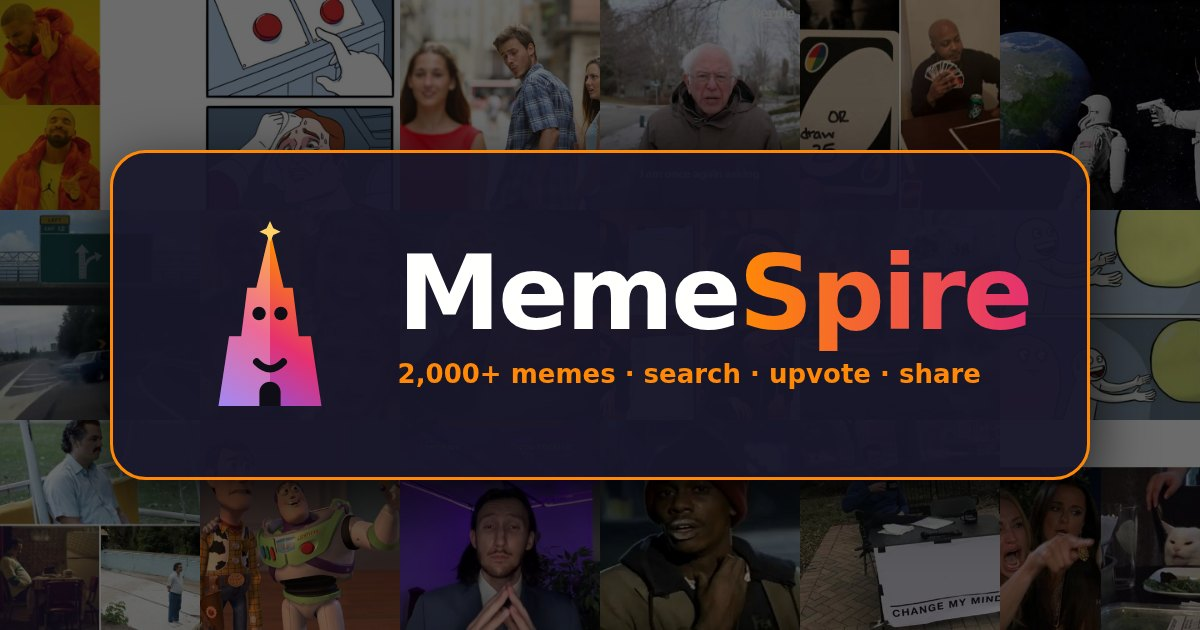
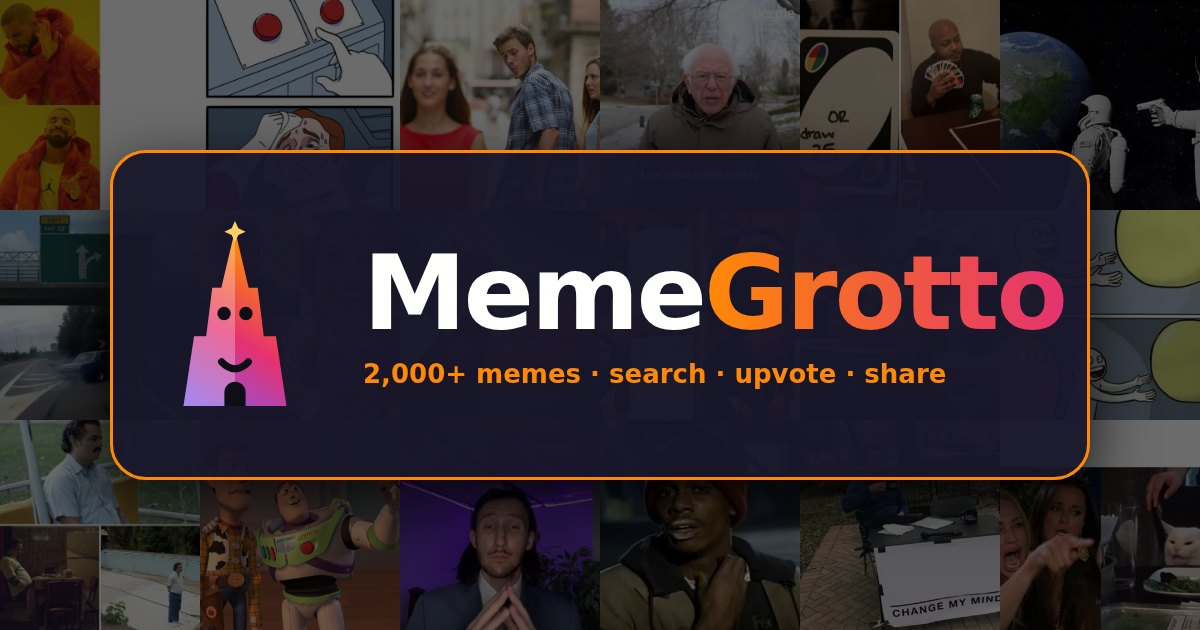
Rebrand MemeSpire -> MemeGrotto: titles, wordmark, meta/OG, manifest, share text, moderation page, og.jpg; SW caches mg-* (migrates ms-/mv- image caches, deletes old); localStorage keys unchanged

Changed region(s): [[0.3083, 0.3921, 0.8942, 0.6333], [0.1542, 0.3619, 0.2775, 0.6635]]

diff --git a/index.html b/index.html
@@ -5,35 +5,35 @@
 <meta http-equiv="Cache-Control" content="no-cache">
 <meta name="theme-color" content="#0f0e17">
 <meta name="viewport" content="width=device-width,initial-scale=1,viewport-fit=cover">
-<title>MemeSpire — a library of internet memes</title>
+<title>MemeGrotto — a library of internet memes</title>
 <link rel="icon" href="icons/logo.svg" type="image/svg+xml">
 <link rel="icon" href="icons/icon-192.png" type="image/png" sizes="192x192">
-<meta name="description" content="MemeSpire: 2,000+ internet memes sorted into categories, from classic templates and Harambe to Sonic, Will Smith and fresh Reddit picks. Search, upvote and share.">
+<meta name="description" content="MemeGrotto: 2,000+ internet memes sorted into categories, from classic templates and Harambe to Sonic, Will Smith and fresh Reddit picks. Search, upvote and share.">
 <meta property="og:type" content="website">
-<meta property="og:site_name" content="MemeSpire">
-<meta property="og:title" content="MemeSpire: a library of internet memes">
+<meta property="og:site_name" content="MemeGrotto">
+<meta property="og:title" content="MemeGrotto: a library of internet memes">
 <meta property="og:description" content="2,000+ categorized memes: classics, Harambe, Sonic, Will Smith, trending Reddit picks. Search, upvote and share.">
 <meta property="og:url" content="https://adimego.github.io/memespire/">
-<meta property="og:image" content="https://adimego.github.io/memespire/og.jpg?v=2">
+<meta property="og:image" content="https://adimego.github.io/memespire/og.jpg?v=3">
 <meta property="og:image:width" content="1200">
 <meta property="og:image:height" content="630">
-<meta property="og:image:alt" content="The MemeSpire logo over a collage of memes">
+<meta property="og:image:alt" content="The MemeGrotto logo over a collage of memes">
 <meta name="twitter:card" content="summary_large_image">
-<meta name="twitter:title" content="MemeSpire: a library of internet memes">
+<meta name="twitter:title" content="MemeGrotto: a library of internet memes">
 <meta name="twitter:description" content="2,000+ categorized memes. Search, upvote and share.">
-<meta name="twitter:image" content="https://adimego.github.io/memespire/og.jpg?v=2">
+<meta name="twitter:image" content="https://adimego.github.io/memespire/og.jpg?v=3">
 <link rel="manifest" href="manifest.webmanifest">
 <link rel="apple-touch-icon" href="icons/apple-touch-icon.png">
 <meta name="apple-mobile-web-app-capable" content="yes">
 <meta name="mobile-web-app-capable" content="yes">
-<meta name="apple-mobile-web-app-title" content="MemeSpire">
+<meta name="apple-mobile-web-app-title" content="MemeGrotto">
 <link rel="canonical" href="https://adimego.github.io/memespire/">
 <link rel="stylesheet" href="style.css?v=df4d4b6a57">
 </head>
 <body>
 <header class="top">
   <button class="menu-btn" id="menuBtn" aria-label="Open categories menu" aria-controls="sidebar" aria-expanded="false">☰</button>
-  <a class="brand" href="#" aria-label="MemeSpire home"><span class="logo"><svg xmlns="http://www.w3.org/2000/svg" viewBox="-1 -3 66 66" aria-hidden="true" focusable="false"><defs>  <linearGradient id="msgH" x1="0" y1="1" x2="0.35" y2="0">    <stop offset="0" stop-color="#7f5af0"/><stop offset=".5" stop-color="#e53170"/><stop offset="1" stop-color="#ff8906"/>  </linearGradient></defs><path fill="url(#msgH)" d="M32 2 L36.5 21 H39.5 L41.5 37 H45.5 L49 60 H15 L18.5 37 H22.5 L24.5 21 H27.5 Z"/><path fill="#fffffe" opacity=".28" d="M32 2 L32 60 H15 L18.5 37 H22.5 L24.5 21 H27.5 Z"/><circle cx="28.4" cy="29.5" r="2.2" fill="#0f0e17"/><circle cx="35.6" cy="29.5" r="2.2" fill="#0f0e17"/><path d="M27.6 45.5 Q32 50 36.4 45.5" fill="none" stroke="#0f0e17" stroke-width="2.4" stroke-linecap="round"/><path fill="#0f0e17" d="M28.5 60 V55.5 a3.5 3.5 0 0 1 7 0 V60 Z"/><path fill="#ffd166" d="M32 0 l1.1 2.4 2.4 1.1 -2.4 1.1 L32 7 l-1.1-2.4 -2.4-1.1 2.4-1.1Z" transform="translate(0 -1) scale(1)"/></svg></span><span>Meme<b>Spire</b></span></a>
+  <a class="brand" href="#" aria-label="MemeGrotto home"><span class="logo"><svg xmlns="http://www.w3.org/2000/svg" viewBox="-1 -3 66 66" aria-hidden="true" focusable="false"><defs>  <linearGradient id="msgH" x1="0" y1="1" x2="0.35" y2="0">    <stop offset="0" stop-color="#7f5af0"/><stop offset=".5" stop-color="#e53170"/><stop offset="1" stop-color="#ff8906"/>  </linearGradient></defs><path fill="url(#msgH)" d="M32 2 L36.5 21 H39.5 L41.5 37 H45.5 L49 60 H15 L18.5 37 H22.5 L24.5 21 H27.5 Z"/><path fill="#fffffe" opacity=".28" d="M32 2 L32 60 H15 L18.5 37 H22.5 L24.5 21 H27.5 Z"/><circle cx="28.4" cy="29.5" r="2.2" fill="#0f0e17"/><circle cx="35.6" cy="29.5" r="2.2" fill="#0f0e17"/><path d="M27.6 45.5 Q32 50 36.4 45.5" fill="none" stroke="#0f0e17" stroke-width="2.4" stroke-linecap="round"/><path fill="#0f0e17" d="M28.5 60 V55.5 a3.5 3.5 0 0 1 7 0 V60 Z"/><path fill="#ffd166" d="M32 0 l1.1 2.4 2.4 1.1 -2.4 1.1 L32 7 l-1.1-2.4 -2.4-1.1 2.4-1.1Z" transform="translate(0 -1) scale(1)"/></svg></span><span>Meme<b>Grotto</b></span></a>
   <div class="search">
     <span>🔎</span>
     <input id="q" type="search" placeholder="Search titles & tags… (try “harambe” or “will smith”)" autocomplete="off">
@@ -107,10 +107,10 @@
 <div class="share-backdrop" id="shareBackdrop" hidden></div>
 <div class="share-menu" id="shareMenu" role="dialog" aria-label="Share meme" hidden></div>
 <div id="toast" class="toast"></div>
-<script src="app.js?v=70d94827a5"></script>
-<script src="features.js?v=9e08d49287"></script>
-<script src="play.js?v=38449d7c40"></script>
-<script src="community.js?v=17ca2467da"></script>
-<script src="editor.js?v=5ee82f0584"></script>
+<script src="app.js?v=ab037400a9"></script>
+<script src="features.js?v=498ad27e42"></script>
+<script src="play.js?v=175639ca8e"></script>
+<script src="community.js?v=c628556e77"></script>
+<script src="editor.js?v=53b4a9c40e"></script>
 </body>
 </html>

diff --git a/features.js b/features.js
@@ -1,4 +1,4 @@
-// MemeSpire extras: favorites & collections (localStorage), Meme of the Day, image-text search hints, "More like this".
+// MemeGrotto extras: favorites & collections (localStorage), Meme of the Day, image-text search hints, "More like this".
 (() => {
   const KEY = "mv-lib";
   const load = () => { try { const d = JSON.parse(localStorage.getItem(KEY)); if (d && Array.isArray(d.fav) && Array.isArray(d.cols)) return d; } catch (e) {} return { fav: [], cols: [] }; };
@@ -66,9 +66,9 @@
 
   // ---- export / import
   function exportLib() {
-    const data = { app: "MemeSpire", version: 1, exported: new Date().toISOString(), favorites: lib.fav, collections: lib.cols };
+    const data = { app: "MemeGrotto", version: 1, exported: new Date().toISOString(), favorites: lib.fav, collections: lib.cols };
     const a = document.createElement("a"); a.href = URL.createObjectURL(new Blob([JSON.stringify(data, null, 2)], { type: "application/json" }));
-    a.download = `memespire-library-${new Date().toISOString().slice(0, 10)}.json`; document.body.appendChild(a); a.click(); a.remove();
+    a.download = `memegrotto-library-${new Date().toISOString().slice(0, 10)}.json`; document.body.appendChild(a); a.click(); a.remove();
     setTimeout(() => URL.revokeObjectURL(a.href), 2000); toast("Library exported ⬇");
   }
   function importLib() {
@@ -85,7 +85,7 @@
           else { lib.cols.push({ id: uid(), name: clean(c.name), items: [...new Set(c.items.filter(ok))].slice(0, 5000) }); nc++; }
         });
         save(); refresh(); toast(`Imported ${nf} favorite${nf === 1 ? "" : "s"} and ${nc} collection${nc === 1 ? "" : "s"} ⬆`);
-      } catch (e) { toast("That file isn't a MemeSpire library export"); }
+      } catch (e) { toast("That file isn't a MemeGrotto library export (MemeSpire/MemeVault exports work too)"); }
     };
     inp.click();
   }
@@ -134,7 +134,7 @@
       if (c) {
         tb.innerHTML = `<button class="btn" data-a="ren">✏ Rename</button><button class="btn" data-a="del">🗑 Delete collection</button>`;
         tb.querySelector('[data-a="ren"]').onclick = () => { const nm = clean(prompt("Rename collection:", c.name)); if (nm) { c.name = nm; save(); buildSidebar(); render(); } };
-        tb.querySelector('[data-a="del"]').onclick = () => { if (confirm(`Delete the collection “${c.name}”? The memes stay on MemeSpire.`)) { lib.cols = lib.cols.filter(x => x !== c); save(); go(null); toast("Collection deleted"); } };
+        tb.querySelector('[data-a="del"]').onclick = () => { if (confirm(`Delete the collection “${c.name}”? The memes stay on MemeGrotto.`)) { lib.cols = lib.cols.filter(x => x !== c); save(); go(null); toast("Collection deleted"); } };
       } else if (state.list === "fav") tb.innerHTML = '<span class="muted">Tap ❤ on any meme to save it here. Favorites live in this browser; use Export in the sidebar to back them up.</span>';
       if (!view.length && !state.q) $("#empty").querySelector("p").firstChild.textContent = state.list === "fav" ? "No favorites yet. " : "This collection is empty. ";
     }
@@ -241,7 +241,7 @@
     let b = $("#installBtn");
     if (!b) {
       b = document.createElement("button"); b.id = "installBtn"; b.type = "button"; b.className = "install-btn";
-      b.innerHTML = '<img src="icons/icon-192.png" alt=""><span>Install MemeSpire<small>Works offline · opens like an app</small></span>';
+      b.innerHTML = '<img src="icons/icon-192.png" alt=""><span>Install MemeGrotto<small>Works offline · opens like an app</small></span>';
       $("#sidebar .sb-head").after(b);
       b.onclick = async () => {
         if (deferred) { deferred.prompt(); const r = await deferred.userChoice.catch(() => null); deferred = null; if (r?.outcome === "accepted") b.hidden = true; }
@@ -251,7 +251,7 @@
     b.hidden = standalone() || !(deferred || ios);
   }
   window.addEventListener("beforeinstallprompt", e => { e.preventDefault(); deferred = e; btn(); });
-  window.addEventListener("appinstalled", () => { deferred = null; const b = $("#installBtn"); if (b) b.hidden = true; toast("MemeSpire installed 📲"); });
+  window.addEventListener("appinstalled", () => { deferred = null; const b = $("#installBtn"); if (b) b.hidden = true; toast("MemeGrotto installed 📲"); });
   if (ios && !standalone()) btn();
   window.addEventListener("offline", () => toast("You're offline: cached memes still work 📴"));
 })();

diff --git a/community.js b/community.js
@@ -1,4 +1,4 @@
-// MemeSpire community features (Supabase): submissions + Community gallery, editor "Post to gallery", reports,
+// MemeGrotto community features (Supabase): submissions + Community gallery, editor "Post to gallery", reports,
 // view/share/caption/download events and a Stats page. Everything stays hidden until supabase/features.sql has been
 // run (detected through the mv_features() RPC), so this file is safe to ship first.
 (() => {
@@ -58,11 +58,11 @@
       }
       memes = memes.filter(m => !m.community);
       gallery = rows.filter(x => urls[x.image_path]).map((x, i) => {
-        const tags = [...(x.tags || []).map(t => String(t).toLowerCase().slice(0, 30)), "community", x.kind === "creation" ? "made on memespire" : "submitted"];
+        const tags = [...(x.tags || []).map(t => String(t).toLowerCase().slice(0, 30)), "community", x.kind === "creation" ? "made on memegrotto" : "submitted"];
         return { id: "sub-" + x.id, title: x.title, category: x.category && CAT_META[x.category] ? x.category : "Community", tags, community: true, kind: x.kind,
                  ...(/\.(mp4|webm)$/i.test(x.image_path) ? { video: urls[x.image_path], image: "", thumb: "", noEdit: true } : { image: urls[x.image_path], thumb: urls[x.image_path] }),
                  source: "Community", source_url: location.origin + location.pathname + "#m=sub-" + x.id,
-                 attribution: x.kind === "creation" ? "Made with the MemeSpire editor by a visitor" : "Submitted by a MemeSpire visitor",
+                 attribution: x.kind === "creation" ? "Made with the MemeGrotto editor by a visitor" : "Submitted by a MemeGrotto visitor",
                  date_added: (x.created_at || "").slice(0, 10), width: 0, height: 0, rank: 100000 + i,
                  hay: norm(x.title + " " + tags.join(" ") + " " + (x.category || "")) };
       });
@@ -173,7 +173,7 @@
         e.preventDefault(); const btn = f.querySelector("[type=submit]"); btn.disabled = true; btn.textContent = "Posting…";
         try {
           const small = blob.size > MAX ? await shrink(new File([blob], "meme.png", { type: "image/png" })) : blob;
-          await submit({ blob: small, title: f.title.value.trim(), tags: (t?.tags || []).filter(x => !["reddit", "fresh", "blank template", "community", "submitted", "made on memespire", "made on memevault"].includes(x)).slice(0, 8), category: t?.category && CAT_META[t.category] ? t.category : "", kind: "creation", creator: creatorOf(f) });
+          await submit({ blob: small, title: f.title.value.trim(), tags: (t?.tags || []).filter(x => !["reddit", "fresh", "blank template", "community", "submitted", "made on memegrotto", "made on memespire", "made on memevault"].includes(x)).slice(0, 8), category: t?.category && CAT_META[t.category] ? t.category : "", kind: "creation", creator: creatorOf(f) });
           closeModal(); toast("Posted! It'll show in the gallery once approved 🎉"); if (t) track(vidOf(t), "caption");
         } catch (err) { btn.disabled = false; btn.textContent = "🌍 Post to gallery"; toast(err.message || "Posting failed"); }
       };

diff --git a/sw.js b/sw.js
@@ -1,12 +1,12 @@
-// MemeSpire service worker. VERSION is rewritten by scripts/stamp_assets.py on every deploy, so each deploy installs a
+// MemeGrotto service worker. VERSION is rewritten by scripts/stamp_assets.py on every deploy, so each deploy installs a
 // new worker that drops old caches. Strategy:
 //  - pages (index.html) and data (*.json): network-first, revalidated (cache: "no-cache"), cached copy only when offline
 //    -> a new deploy is picked up on the next load, never stuck on a stale shell (stamped ?v= asset URLs change with it)
 //  - versioned assets (?v=...), fonts, icons: cache-first (the URL changes whenever the content does)
 //  - images/thumbs: cache-first as they are viewed, capped at MAX_IMG entries
 //  - other origins (Supabase API, Imgflip, etc.): not touched
-const VERSION = "f015617df4";
-const SHELL = `ms-shell-${VERSION}`, DATA = `ms-data-${VERSION}`, IMG = "ms-img-v1", MAX_IMG = 600;
+const VERSION = "3533dbe91e";
+const SHELL = `mg-shell-${VERSION}`, DATA = `mg-data-${VERSION}`, IMG = "mg-img-v1", MAX_IMG = 600;
 const CORE = ["./", "index.html", "memes.json", "manifest.webmanifest", "icons/icon-192.png"];
 self.addEventListener("install", e => {
   e.waitUntil((async () => {
@@ -23,12 +23,16 @@ self.addEventListener("install", e => {
 });
 self.addEventListener("activate", e => {
   e.waitUntil((async () => {
-    // keep the images viewed under the old MemeVault cache name (mv-img-v1) instead of re-downloading them
-    if (await caches.has("mv-img-v1")) {
-      const o = await caches.open("mv-img-v1"), n = await caches.open(IMG);
-      for (const r of (await o.keys()).slice(-MAX_IMG)) { const v = await o.match(r); if (v) await n.put(r, v); }
+    // keep the images viewed under the old MemeSpire (ms-img-v1) / MemeVault (mv-img-v1) cache names instead of re-downloading them
+    for (const old of ["ms-img-v1", "mv-img-v1"]) {
+      if (!(await caches.has(old))) continue;
+      try {
+        const o = await caches.open(old), n = await caches.open(IMG);
+        for (const r of (await o.keys()).slice(-MAX_IMG)) { const v = await o.match(r); if (v && !(await n.match(r))) await n.put(r, v); }
+      } catch (err) {}
     }
-    for (const k of await caches.keys()) if ((k.startsWith("mv-") || k.startsWith("ms-")) && k !== SHELL && k !== DATA && k !== IMG) await caches.delete(k);
+    // drop every old shell/data/image cache (old mg-* versions and all ms-* / mv-* caches from the previous brands)
+    for (const k of await caches.keys()) if (/^(mg|ms|mv)-/.test(k) && k !== SHELL && k !== DATA && k !== IMG) await caches.delete(k);
     await self.clients.claim();
   })());
 });

diff --git a/editor.js b/editor.js
@@ -1,4 +1,4 @@
-// MemeSpire caption editor: canvas-based, runs fully in the browser (nothing is uploaded or stored).
+// MemeGrotto caption editor: canvas-based, runs fully in the browser (nothing is uploaded or stored).
 (() => {
   const $ = s => document.querySelector(s);
   const FONT = 'Impact, MemeAnton, "Arial Narrow Bold", sans-serif';
@@ -359,7 +359,7 @@
   }
 
   function blob() { if (!img) { toast("Still loading…"); return Promise.reject(new Error("not ready")); } draw(true); return new Promise(res => cv.toBlob(b => { draw(); res(b); }, "image/png")); }
-  const fname = () => "memespire-" + (meme ? meme.id.slice(0, 40) : "meme") + ".png";
+  const fname = () => "memegrotto-" + (meme ? meme.id.slice(0, 40) : "meme") + ".png";
   async function download() {
     const b = await blob().catch(() => null); if (!b) return;
     const a = document.createElement("a"); a.href = URL.createObjectURL(b); a.download = fname();
@@ -375,7 +375,7 @@
     const b = await blob().catch(() => null); if (!b) return;
     const f = new File([b], fname(), { type: "image/png" });
     if (navigator.share && navigator.canShare && navigator.canShare({ files: [f] })) {
-      try { await navigator.share({ files: [f], title: "My meme · MemeSpire", text: "Made on MemeSpire " + (typeof deepLink === "function" ? deepLink(meme) : location.href) }); window.MVTrack?.(meme.id, "caption"); return; }
+      try { await navigator.share({ files: [f], title: "My meme · MemeGrotto", text: "Made on MemeGrotto " + (typeof deepLink === "function" ? deepLink(meme) : location.href) }); window.MVTrack?.(meme.id, "caption"); return; }
       catch (e) { if (e.name === "AbortError") return; }
     }
     // no file sharing here: save the image and open the normal share menu for the template link

diff --git a/app.js b/app.js
@@ -355,7 +355,7 @@ function prefetchBlob(m) {
 }
 const touchy = () => matchMedia("(pointer: coarse)").matches;
 async function share(m, anchor) {
-  const url = deepLink(m), title = m.title + " · MemeSpire";
+  const url = deepLink(m), title = m.title + " · MemeGrotto";
   if (navigator.share && touchy()) {
     const b = blobCache.get(m.id);
     const data = { title, text: m.title, url };
@@ -470,7 +470,7 @@ function openById(id) {
   let i = view.findIndex(m => m.id === id);
   if (i < 0) {
     const m = memes.find(x => x.id === id);
-    if (!m) { if (id.startsWith("sub-") && window.MVCommunity && !MVCommunity.loaded()) return; return toast("That meme isn't on MemeSpire anymore 🤷"); }
+    if (!m) { if (id.startsWith("sub-") && window.MVCommunity && !MVCommunity.loaded()) return; return toast("That meme isn't on MemeGrotto anymore 🤷"); }
     Object.assign(state, { cat: null, tag: null, q: "", top: false, trend: false, list: m.community ? "community" : null }); $("#q").value = "";
     if (m.nsfw && !state.nsfw) { state.nsfw = true; $("#nsfw").checked = true; }
     buildSidebar(); render(); i = view.findIndex(x => x.id === id);

diff --git a/moderate.html b/moderate.html
@@ -5,14 +5,14 @@
 <meta name="viewport" content="width=device-width,initial-scale=1,viewport-fit=cover">
 <meta name="robots" content="noindex,nofollow">
 <meta name="theme-color" content="#0f0e17">
-<title>Moderation · MemeSpire</title>
+<title>Moderation · MemeGrotto</title>
 <link rel="icon" href="icons/logo.svg" type="image/svg+xml">
 <link rel="stylesheet" href="style.css?v=df4d4b6a57">
 <link rel="stylesheet" href="moderate.css?v=021f0f7969">
 </head>
 <body class="mod">
 <header class="mod-top">
-  <a class="brand" href="./"><span class="logo"><img src="icons/logo.svg" alt="" width="28" height="28"></span><span>Meme<b>Spire</b></span></a>
+  <a class="brand" href="./"><span class="logo"><img src="icons/logo.svg" alt="" width="28" height="28"></span><span>Meme<b>Grotto</b></span></a>
   <span class="mod-badge">Moderation</span>
   <button class="btn" id="modOut" hidden>Log out</button>
 </header>
@@ -35,6 +35,6 @@
   </section>
 </main>
 <div class="toast" id="toast" hidden></div>
-<script src="moderate.js?v=62b89f2f1b"></script>
+<script src="moderate.js?v=e4280ff69c"></script>
 </body>
 </html>

diff --git a/play.js b/play.js
@@ -1,4 +1,4 @@
-// MemeSpire: meme battles (#battle), leaderboards (#leaderboard) and site-wide hidden memes.
+// MemeGrotto: meme battles (#battle), leaderboards (#leaderboard) and site-wide hidden memes.
 // Battles work without the database (picks just aren't saved); ratings, leaderboards and hidden memes need
 // supabase/features2.sql, detected through the mv_features2() RPC.
 (() => {

diff --git a/moderate.js b/moderate.js
@@ -1,4 +1,4 @@
-// MemeSpire moderation page. Needs supabase/features2.sql and a passphrase set with
+// MemeGrotto moderation page. Needs supabase/features2.sql and a passphrase set with
 //   select public.mod_set_passphrase('...');   (Supabase SQL editor)
 // Every request sends the passphrase to security-definer RPCs, which check it against a bcrypt hash.
 (() => {

diff --git a/scripts/make_icons.py b/scripts/make_icons.py
@@ -19,7 +19,7 @@ display:flex;align-items:center;justify-content:center;gap:28px;box-shadow:0 20p
 .l{{width:200px;height:200px;flex:none}} h1{{margin:0;font-size:104px;color:#fffffe;letter-spacing:-3px;line-height:1}}
 h1 b{{background:linear-gradient(90deg,#ff8906,#e53170);-webkit-background-clip:text;color:transparent}}
 p{{margin:14px 0 0;white-space:nowrap;font-size:26px;font-weight:700;color:#ff8906}}</style></head><body><div class="g">{cells}</div>
-<div class="p"><div class="l">{SVG}</div><div><h1>Meme<b>Spire</b></h1><p>2,000+ memes · search · upvote · share</p></div></div></body></html>"""
+<div class="p"><div class="l">{SVG}</div><div><h1>Meme<b>Grotto</b></h1><p>2,000+ memes · search · upvote · share</p></div></div></body></html>"""
 with sync_playwright() as p:
     b = p.chromium.launch(executable_path="/usr/bin/google-chrome", args=["--no-sandbox", "--allow-file-access-from-files"])
     for name, n, r, s, omit in (("icon-192.png", 192, 40, 150, True), ("icon-512.png", 512, 104, 400, True),

diff --git a/scripts/fetch_gifs.py b/scripts/fetch_gifs.py
@@ -18,7 +18,7 @@ Review the poster frames (contact-sheet them) before committing: same content ru
 """
 import datetime, html, json, os, re, subprocess, sys, tempfile, urllib.request
 ROOT = os.path.dirname(os.path.dirname(os.path.abspath(__file__)))
-UA = {"User-Agent": "Mozilla/5.0 (MemeSpire fetch script)"}
+UA = {"User-Agent": "Mozilla/5.0 (MemeGrotto fetch script)"}
 MAX_SIDE, MAX_SECONDS = 720, 15
 
 def get(url):

diff --git a/scripts/moderate.py b/scripts/moderate.py
@@ -1,5 +1,5 @@
 #!/usr/bin/env python3
-"""Optional command-line moderation for MemeSpire community submissions.
+"""Optional command-line moderation for MemeGrotto community submissions.
 
 You do NOT need this: moderating in the Supabase dashboard (Table editor -> submissions -> set status to
 'approved' or 'rejected') does exactly the same thing. This script is only a convenience if you ever choose to
